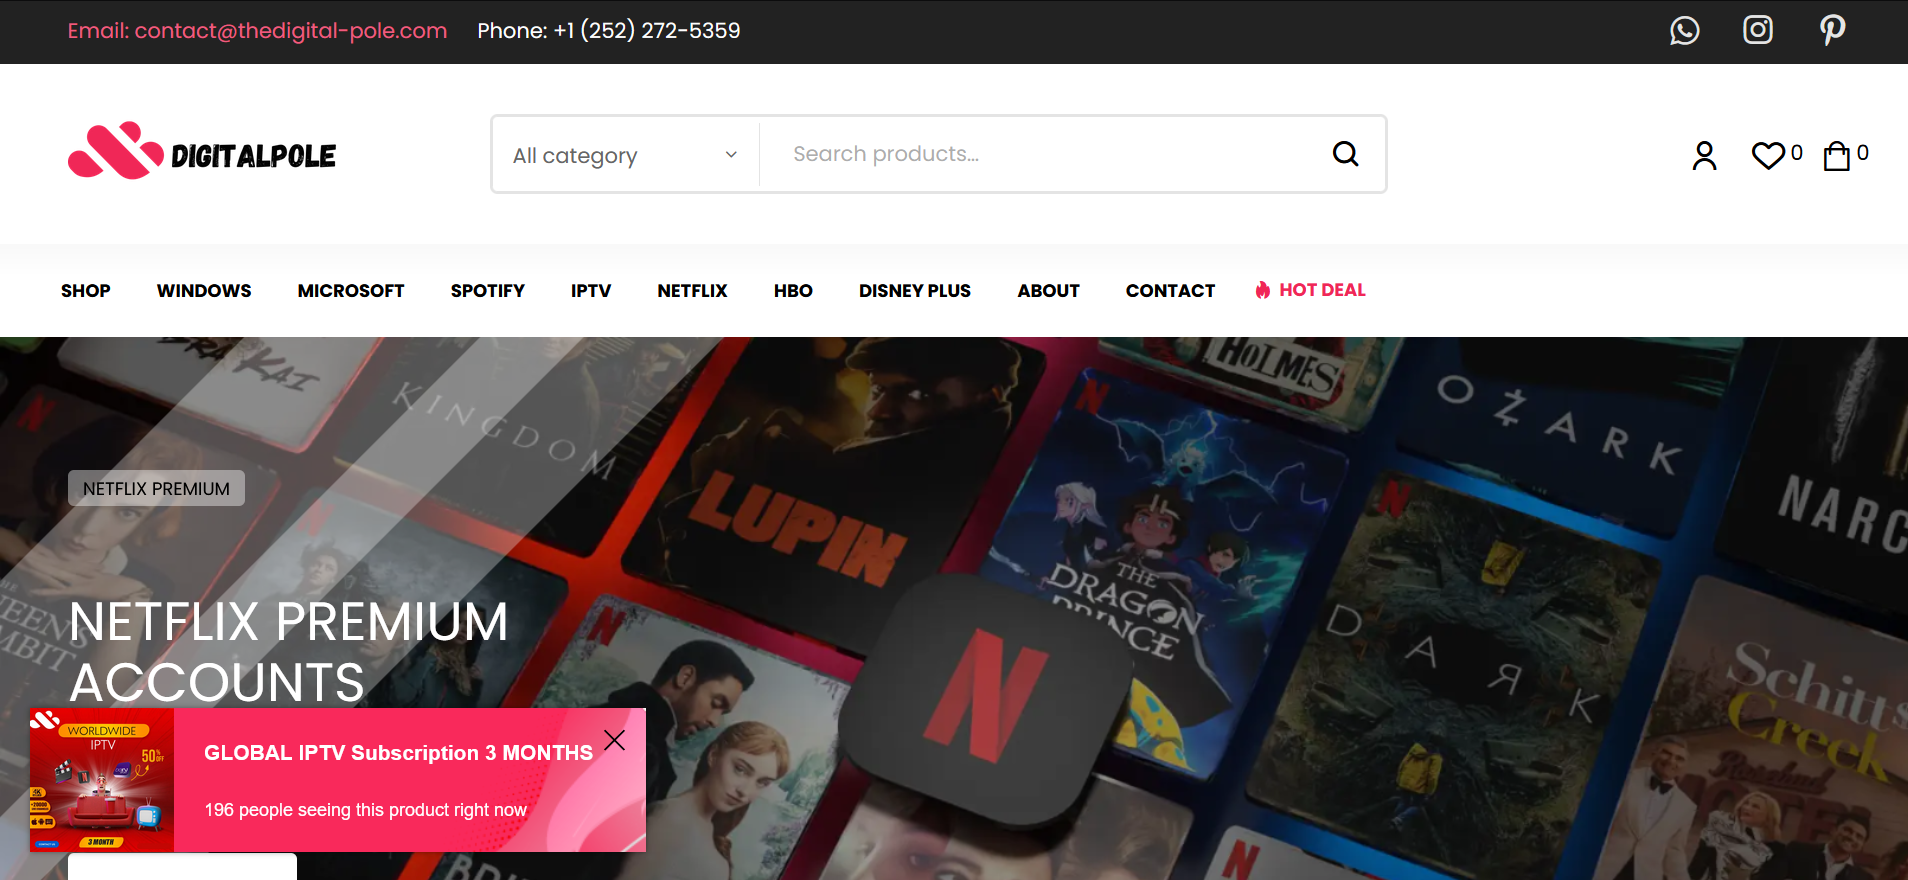
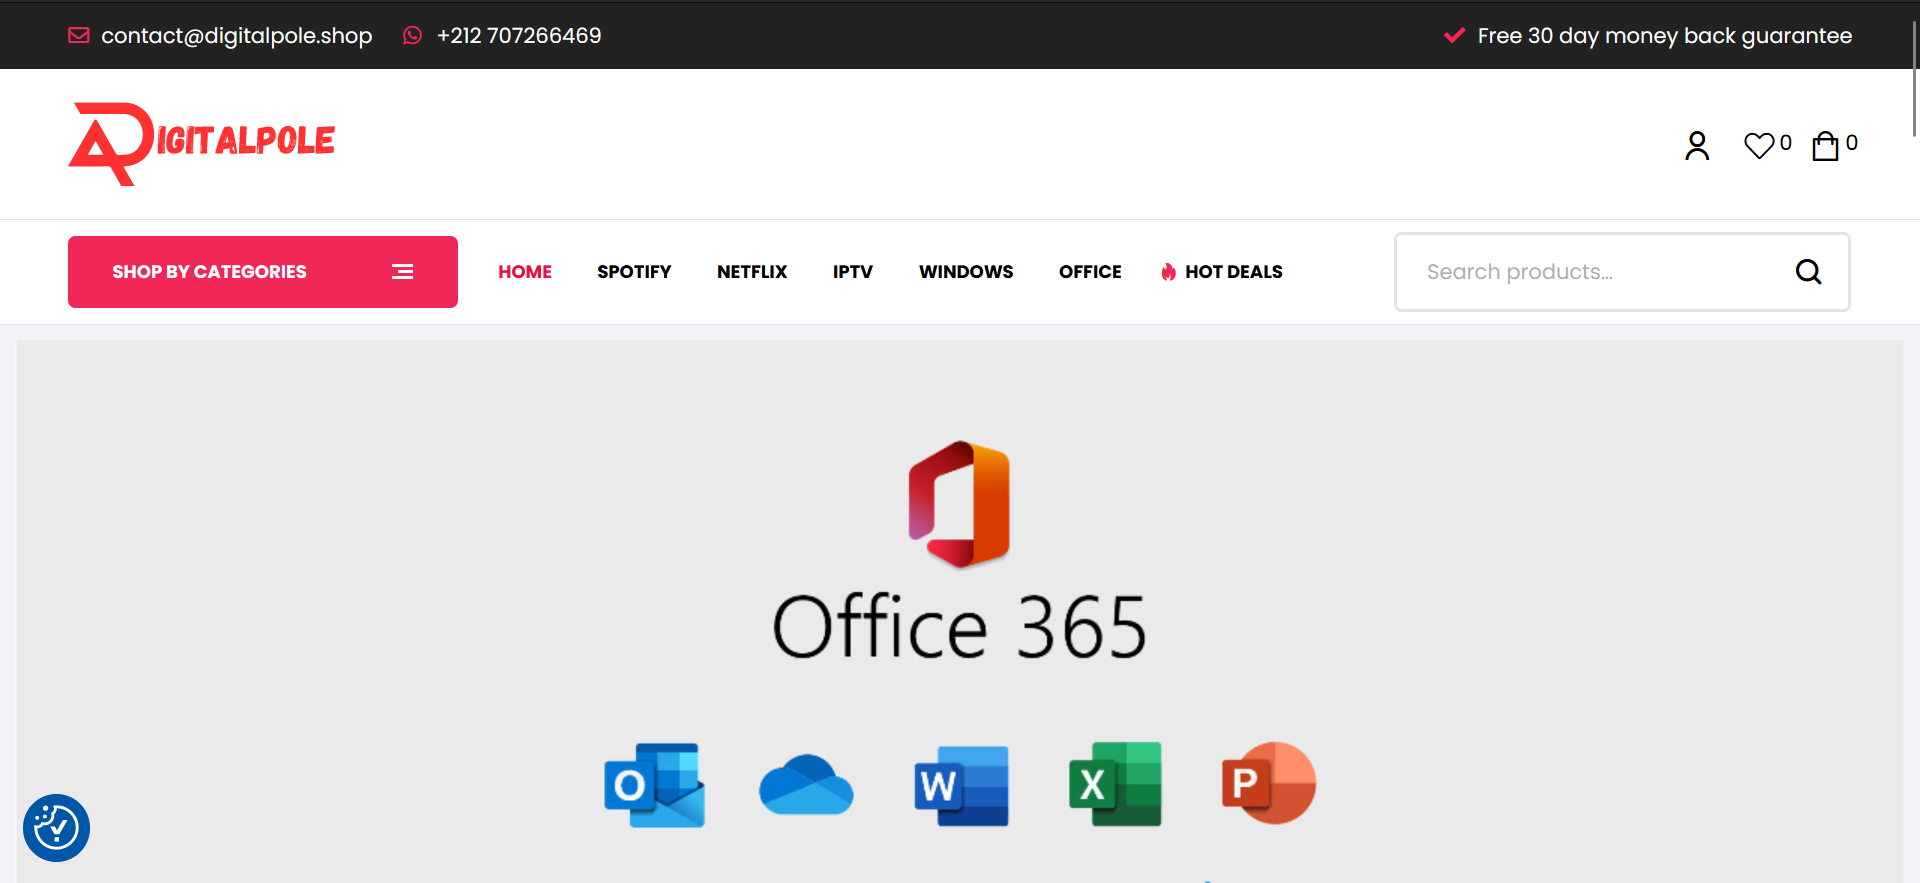
Digital pole image & link have changed!

diff --git a/src/sections/Projects.jsx b/src/sections/Projects.jsx
@@ -95,7 +95,7 @@ const firstRowOfProjects = [
   {
     name: "Digital Pole",
     image: DigitalPole,
-    hrefLink: "https://thedigital-pole.com",
+    hrefLink: "https://thedigital-pole.shop",
     githubLink: "https://github.com/AmineElkhalidy/",
     technologies: [Wordpress],
   },
